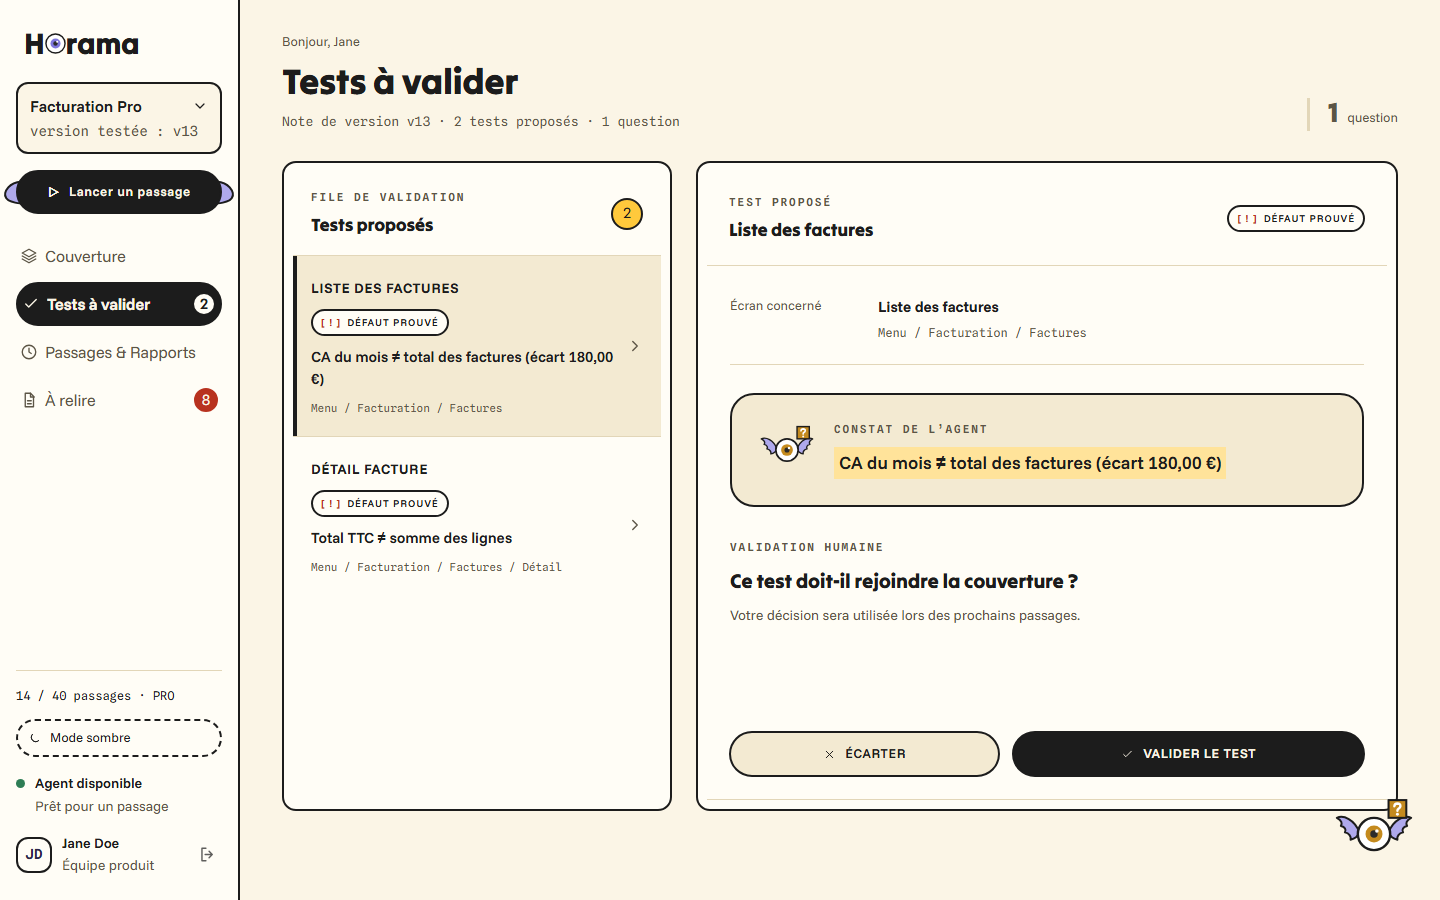
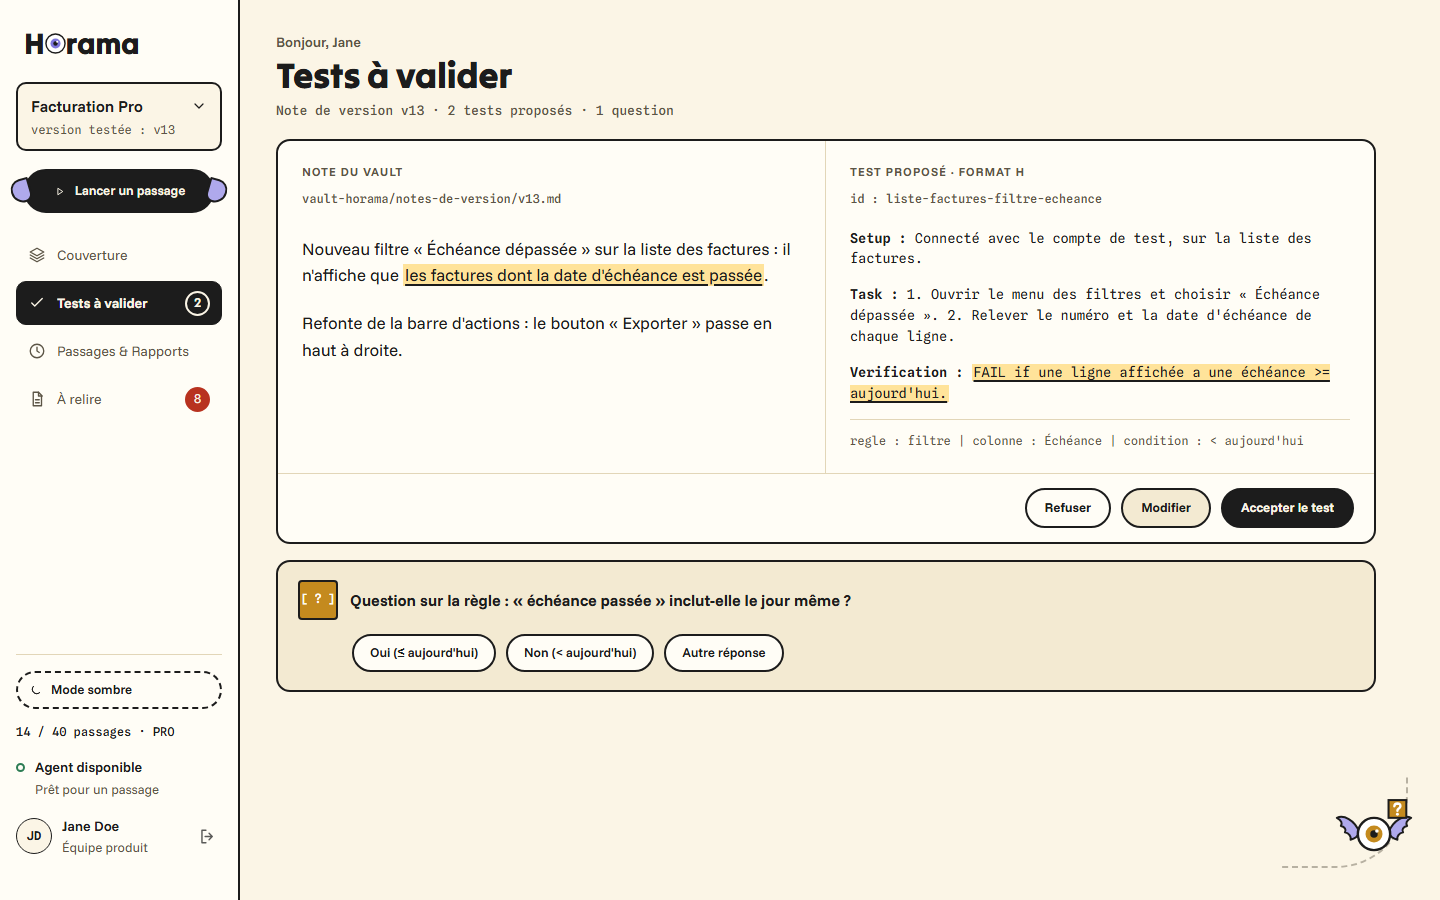
Interface Figma : écran 11.2 « Tests à valider » dans le fichier principal, les 7 écrans au même endroit

diff --git a/docs/da/interface-envoye/README.md b/docs/da/interface-envoye/README.md
@@ -1,18 +1,18 @@
 # Interface Horama dans Figma Make : reskin « L'envoyé » (CDO, 18/11)
 
-Les écrans de l'application, dans Figma Make, suivent la charte graphique « L'envoyé » (`docs/da/charte-graphique.pdf`) et son guide de reskinning. Seuls les couleurs, les polices, les contours, le logo et la mascotte ont été remplacés sur les écrans existants. Les écrans 11.3 à 11.7 ont été créés d'après la spécification des écrans.
+Les écrans de l'application, dans Figma Make, suivent la charte graphique « L'envoyé » (`docs/da/charte-graphique.pdf`) et son guide de reskinning. Seuls les couleurs, les polices, les contours, le logo et la mascotte ont été remplacés sur les écrans existants. Les écrans 11.2 à 11.7 ont été créés d'après la spécification des écrans. Les sept écrans sont dans un seul fichier Figma Make, et on passe de l'un à l'autre par le menu.
 
 | Écran | Fichier Figma Make | Capture | Mascotte |
 |---|---|---|---|
 | 11.1 Couverture | [Concevoir l'interface Horama (light mode) (copie) (copie)](https://www.figma.com/make/95kAUa9u4Rg2A525f5OHtf) | `11-1-couverture.png` | `regarde` (iris `#7F77DD`, sans badge) |
-| 11.2 Tests à valider | [Concevoir l'interface Horama (light mode) (copie) (copie)](https://www.figma.com/make/6bnlfg9sPF3qDLPWshYQLO) | `11-2-tests-a-valider.png` | `doute` (iris ocre, badge « ? ») |
+| 11.2 Tests à valider (de la note au test) | même fichier, route `#screen-11-2` | `11-2-tests-a-valider.png` | `doute` (iris ocre, badge « ? ») |
 | 11.3 Passage en cours | même fichier que 11.1, route `#screen-11-3` | `11-3-passage-en-cours.png` | `regarde` |
 | 11.4 Rapport de passage | même fichier, route `#screen-11-4` | `11-4-rapport-de-passage.png` | `fini` (iris olivier, coche) |
 | 11.5 Comparaison des versions | même fichier, route `#screen-11-5` | `11-5-comparaison-des-versions.png` | `trouve` (iris miltos, badge « ! ») |
 | 11.6 À relire | même fichier, route `#screen-11-6` | `11-6-a-relire.png` | `doute` |
 | 11.7 Dérive documentaire | même fichier, route `#screen-11-7` | `11-7-derive-documentaire.png` | `fini` |
 
-Navigation branchée : « ▷ Lancer un passage » ouvre 11.3, « Passages & Rapports » ouvre 11.4, la ligne « Suspect » du rapport ouvre 11.5, « À relire » et « Ouvrir la relecture → » ouvrent 11.6, « C'est voulu » sur le second cas ouvre 11.7. L'entrée active du menu suit l'écran affiché.
+Navigation branchée : « Tests à valider » ouvre 11.2, « ▷ Lancer un passage » ouvre 11.3, « Passages & Rapports » ouvre 11.4, la ligne « Suspect » du rapport ouvre 11.5, « À relire » et « Ouvrir la relecture → » ouvrent 11.6, « C'est voulu » sur le second cas ouvre 11.7. L'entrée active du menu suit l'écran affiché.
 
 ## Ce qui a été appliqué
 
@@ -31,4 +31,5 @@ La barre latérale n'est **jamais violette**. Elle est en Papier `#FFFDF6`, avec
 
 - Le dossier `interface/` du dépôt n'est pas modifié : ces écrans vivent dans Figma Make (fichiers du CPO).
 - Une restauration de version dans Figma Make avait effacé les écrans 11.3 et 11.4 et remis l'ancien logo sur 11.1 : ils ont été recréés le 18/11 au soir. Avant de restaurer une version, vérifiez qu'elle contient les dossiers `interface/screen-11-3` à `screen-11-7`.
+- L'ancien écran « Tests à valider » du deuxième fichier Figma Make ([lien](https://www.figma.com/make/6bnlfg9sPF3qDLPWshYQLO)) reste en place, avec la barre Papier ; il n'est plus la référence.
 - Les tableaux reproduits dans les maquettes (11.3, 11.5, 11.7) affichent « à mesurer » là où la spécification ne donne pas de valeur.
